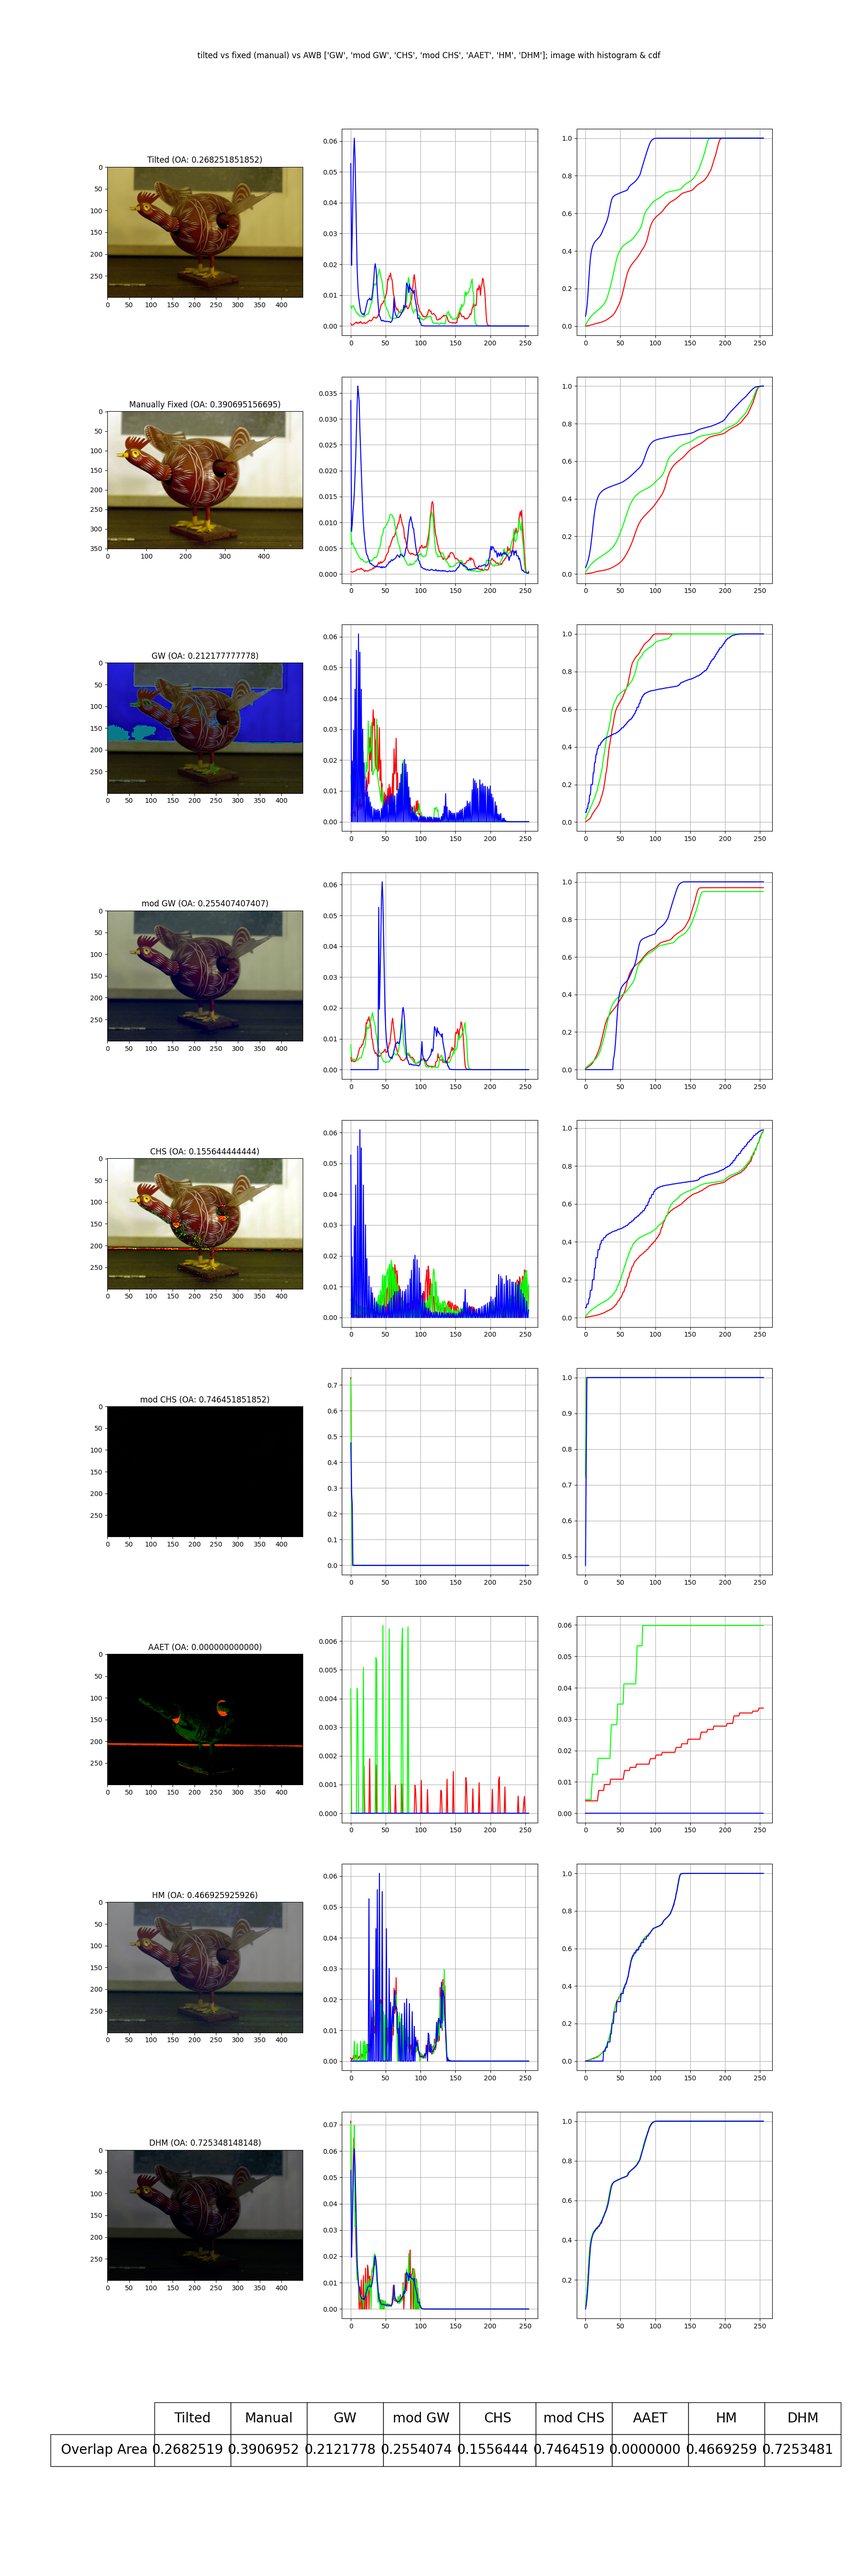
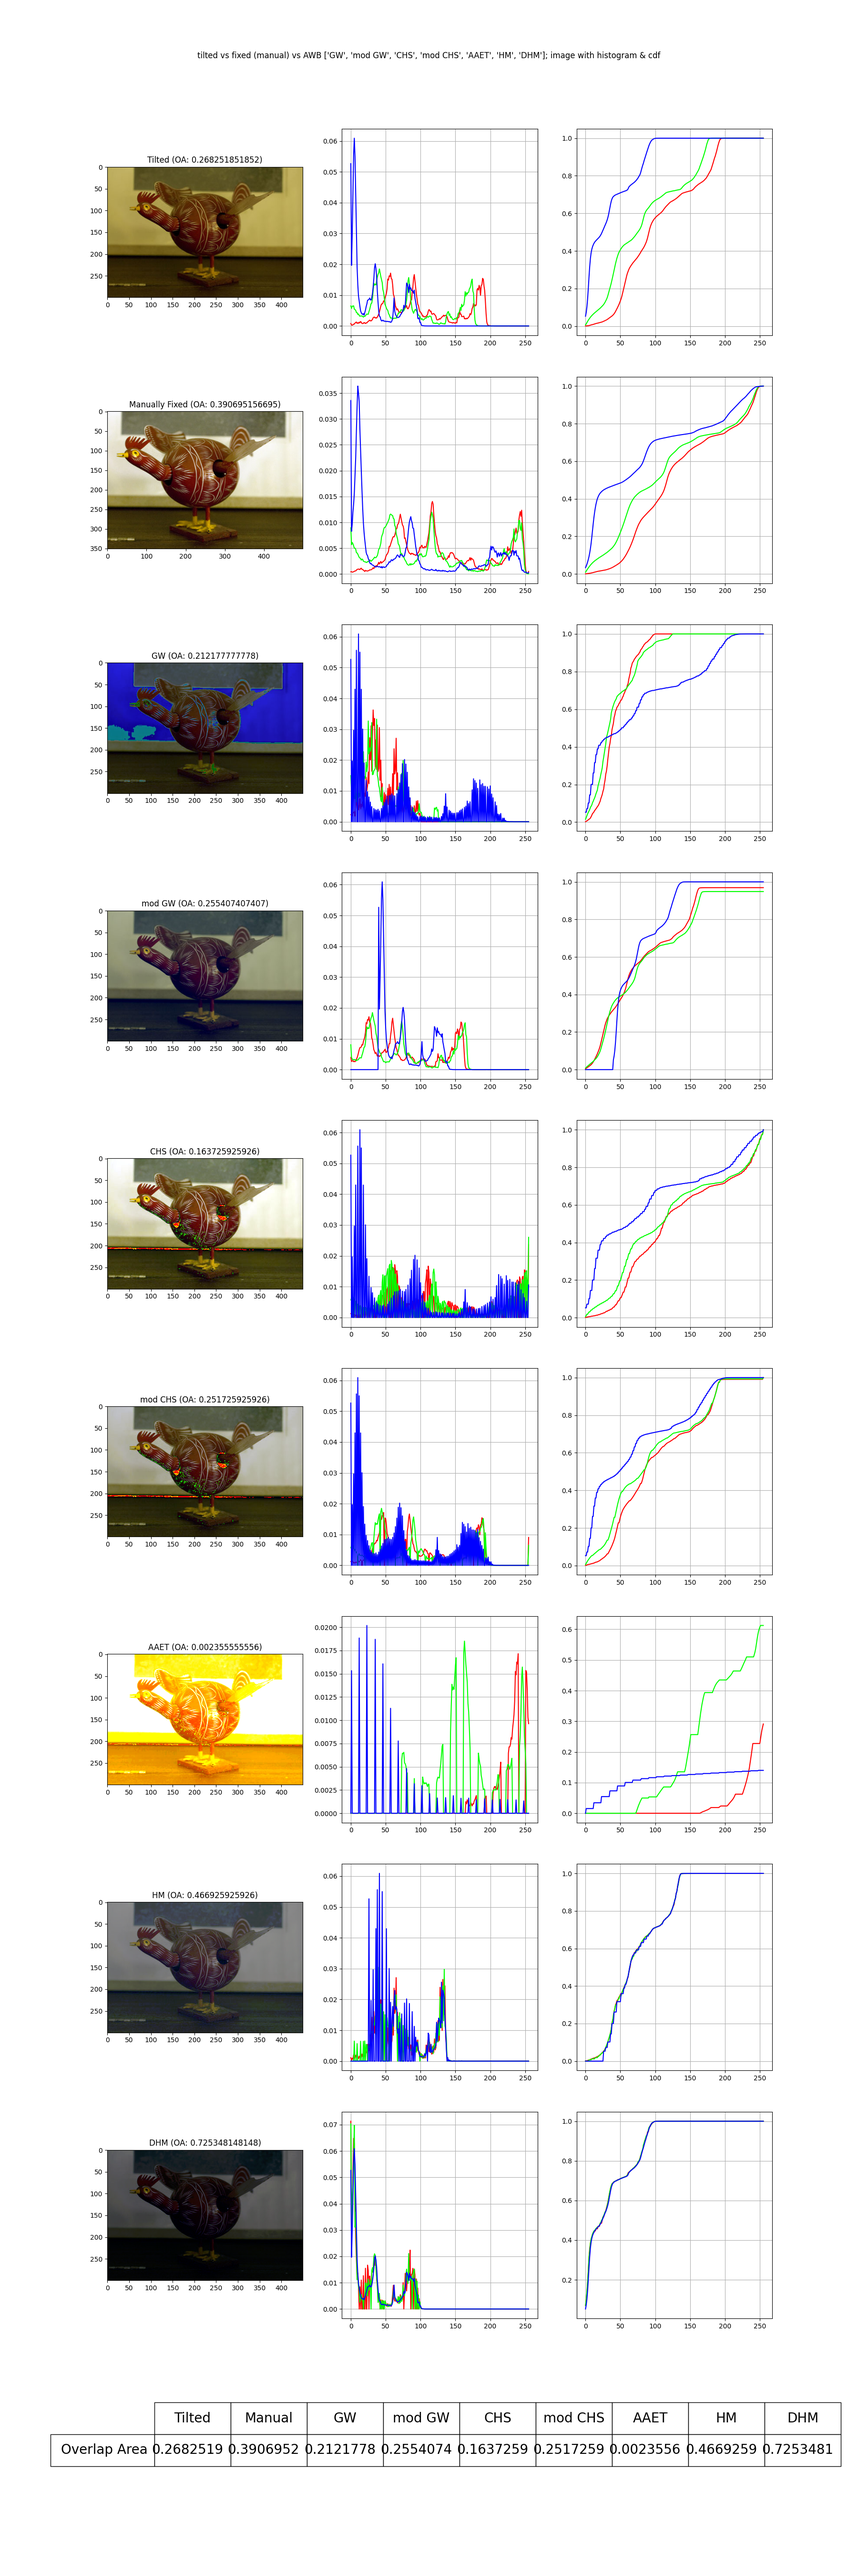
Fix Overflow Issue in CHS Modified (used in AAET) (#1)
* fix(chs): mod-chs: fix bug due to datatype overflow

* docs(report image): re-generate report image

* ci(pyproject): bump to v0.0.3

diff --git a/src/awblib/chs.py b/src/awblib/chs.py
@@ -87,10 +87,15 @@ def original_chs(
     )
     assert isinstance(high, Integer[Array, "3"])
 
+    _max: Integer[Array, "3"] = RGB_range[:, 1].astype(int)
+    _min: Integer[Array, "3"] = RGB_range[:, 0].astype(int)
+    assert isinstance(_max, Integer[Array, "3"])
+    assert isinstance(_min, Integer[Array, "3"])
+
     # STAGE: Histogram Stretching
     result: RGBImage
-    result = ((image - low) * (RGB_range[:, 1]) / (high - low) +
-              RGB_range[:, 0]).astype(int)
+    result = ((image - low) * _max / (high - low) + _min).astype(int)
+    result = jnp.clip(result, a_min=0, a_max=max_value - 1).astype(int)
     assert isinstance(result, RGBImage)
 
     return result
@@ -156,14 +161,15 @@ def modified_chs(
     )
     assert isinstance(high, Integer[Array, "3"])
 
-    a_max: Integer[Array, ""] = high.max()  # A_max
-    a_min: Integer[Array, ""] = low.min()  # A_min
+    a_max: Integer[Array, ""] = high.max().astype(int)  # A_max
+    a_min: Integer[Array, ""] = low.min().astype(int)  # A_min
     assert isinstance(a_max, Integer[Array, ""])
     assert isinstance(a_min, Integer[Array, ""])
 
     # STAGE: Histogram Stretching
     result: RGBImage
-    result = ((image - low) * (a_max) / (high - low) + a_min).astype(int)
+    result = ((image - low) * a_max / (high - low) + a_min).astype(int)
+    result = jnp.clip(result, a_min=0, a_max=max_value - 1).astype(int)
     assert isinstance(result, RGBImage)
 
     return result
@@ -184,7 +190,7 @@ def balance(
 
     result: RGBImage
     if modified:
-        result = modified_chs(image)
+        result = modified_chs(image, bit_depth=bit_depth)
     else:
         result = original_chs(image, bit_depth=bit_depth, RGB_range=RGB_range)
     assert isinstance(result, RGBImage)
